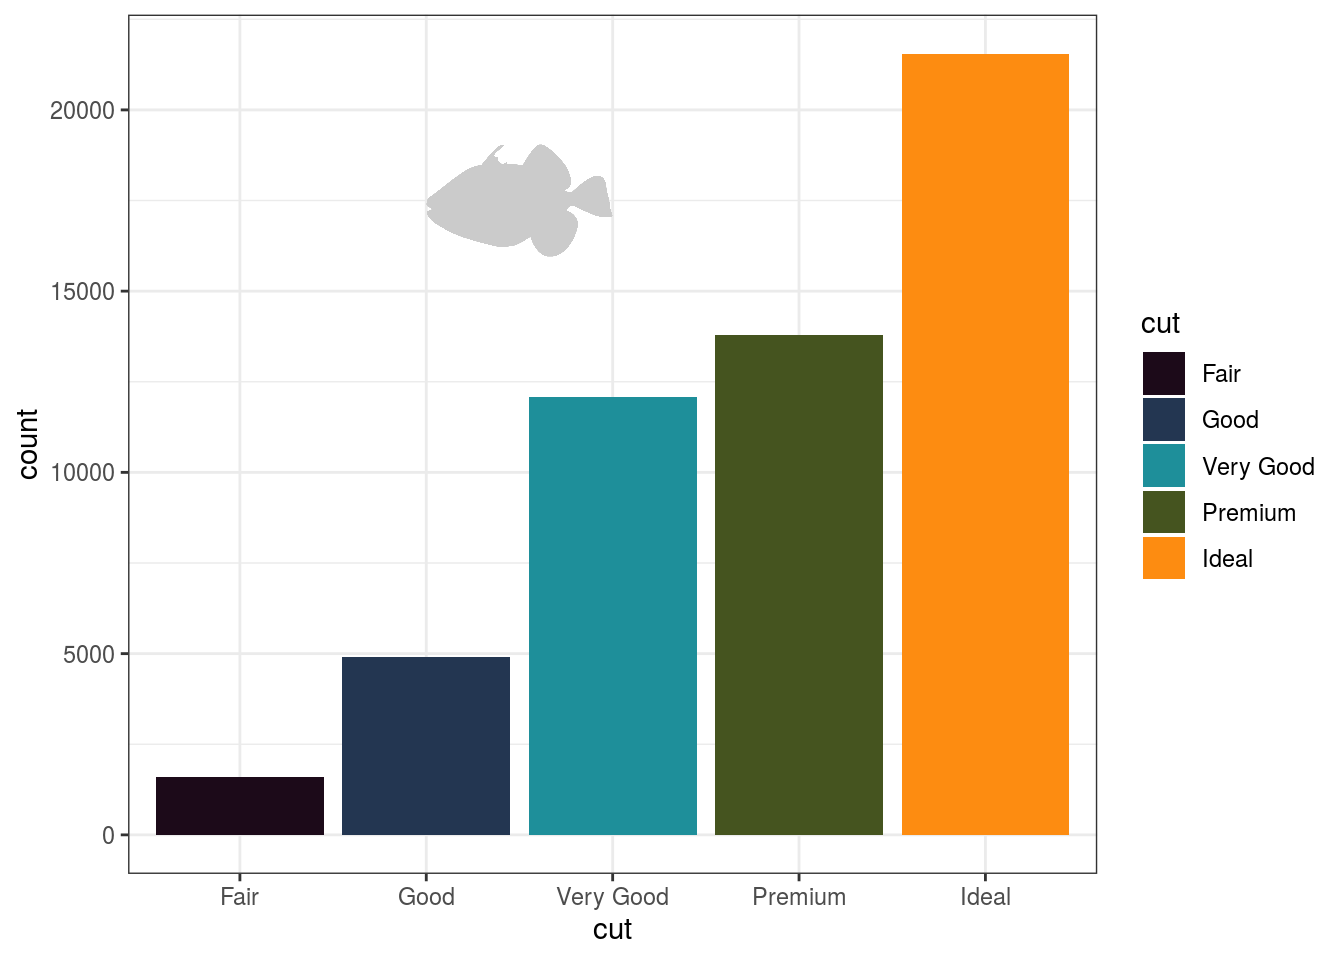
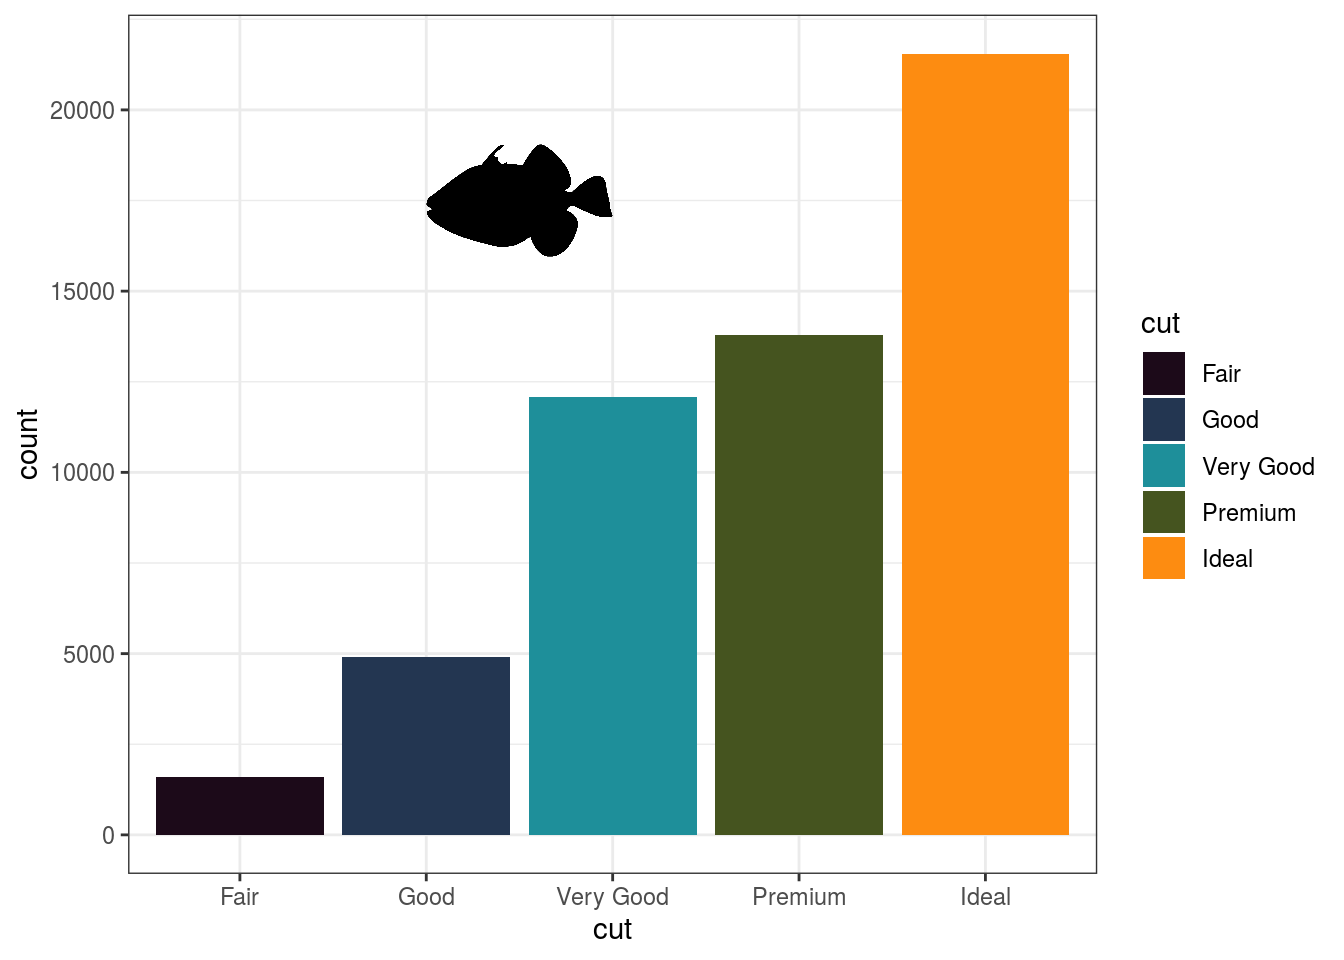
add option to change color in add_silhouette

Changed region(s): [[0.3125, 0.1562, 0.4688, 0.2812]]

diff --git a/README.md b/README.md
@@ -162,7 +162,7 @@ library(ggplot2)
 ggplot(diamonds)+
   geom_bar(aes(cut, fill = cut)) +
   scale_fill_fish_d(option = "Balistapus_undulatus") +
-  fishualize::add_silhouette(option = "Balistapus_undulatus", ymin = 15000, ymax = 20000, xmin = 2, xmax = 3) +
+  fishualize::add_silhouette(option = "Balistapus_undulatus", ymin = 15000, ymax = 20000, xmin = 2, xmax = 3, fill = "#000000") +
   theme_bw()
 ```
 
